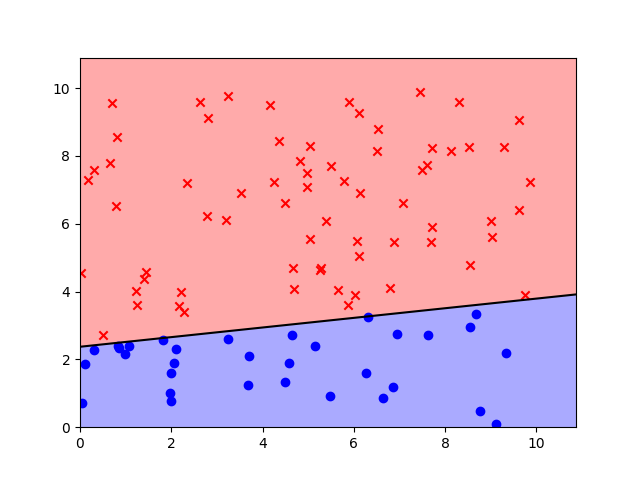
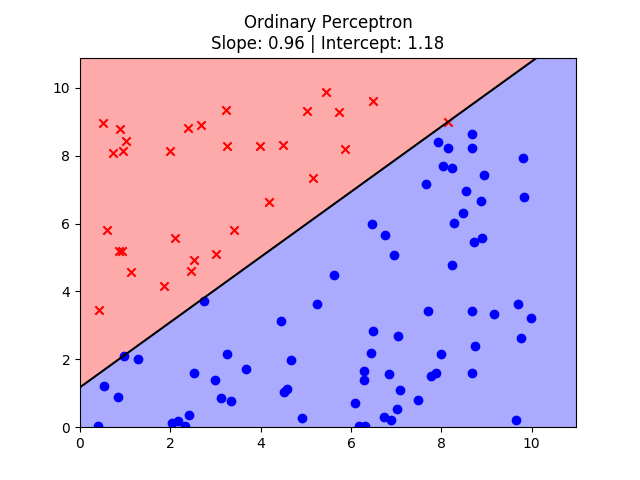
added plots

diff --git a/Perceptron/perceptron.py b/Perceptron/perceptron.py
@@ -100,6 +100,7 @@ def vector_vs_iterative(f,n,d):
 	plt.ylabel("Time (s)")
 	plt.ylim(-.0001,min(np.max(v_time),np.max(i_time)))
 	plt.legend()
+	plt.title("Comparison of Vectorized versus Iterative time")
 	plt.show()
 
 	v_iterations = gaussian_filter1d(v_iterations,sigma=2)
@@ -111,6 +112,7 @@ def vector_vs_iterative(f,n,d):
 	plt.ylabel("Number of iterations")
 	plt.ylim(-.0001,min(np.max(v_iterations),np.max(i_iterations)))
 	plt.legend()
+	plt.title("Comparison of Vectorized versus Iterative number of iterations")
 	plt.show()
 
 def plot_implicit(W):
@@ -148,7 +150,7 @@ if __name__ == '__main__':
 	f = np.random.rand(d+1)
 	f[1]*=-1
 
-	#vector_vs_iterative(f,n,d)
+	vector_vs_iterative(f,n,d)
 
 	
 	X,y = generate_separable_data(f,n,d)
@@ -167,6 +169,8 @@ if __name__ == '__main__':
 	plt.ylim(0,X[:,1].max()+1)
 	plt.xlim(0,X[:,0].max()+1)
 	plot_implicit(W)
+	a,b,c=W
+	plt.title("Ordinary Perceptron\nSlope: {:.2f} | Intercept: {:.2f}".format(-a/b,-c/b))
 	plt.show()
 
 
